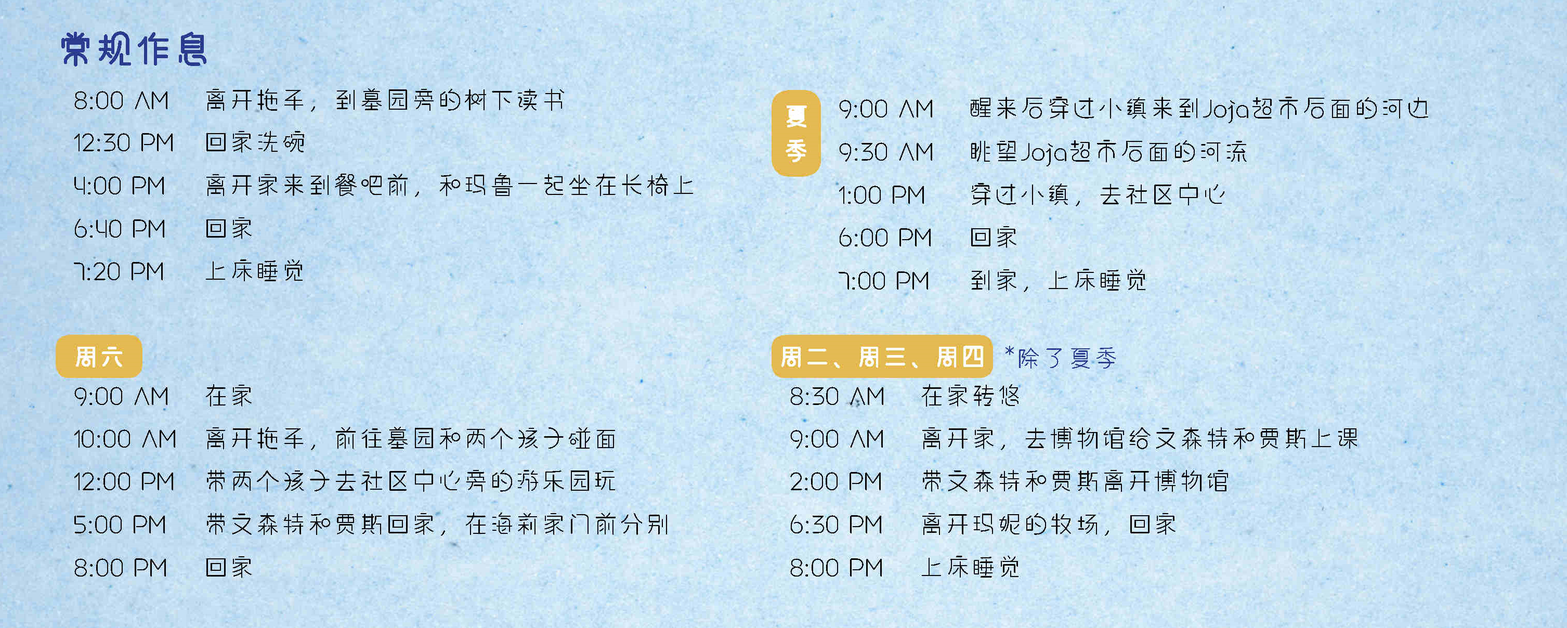
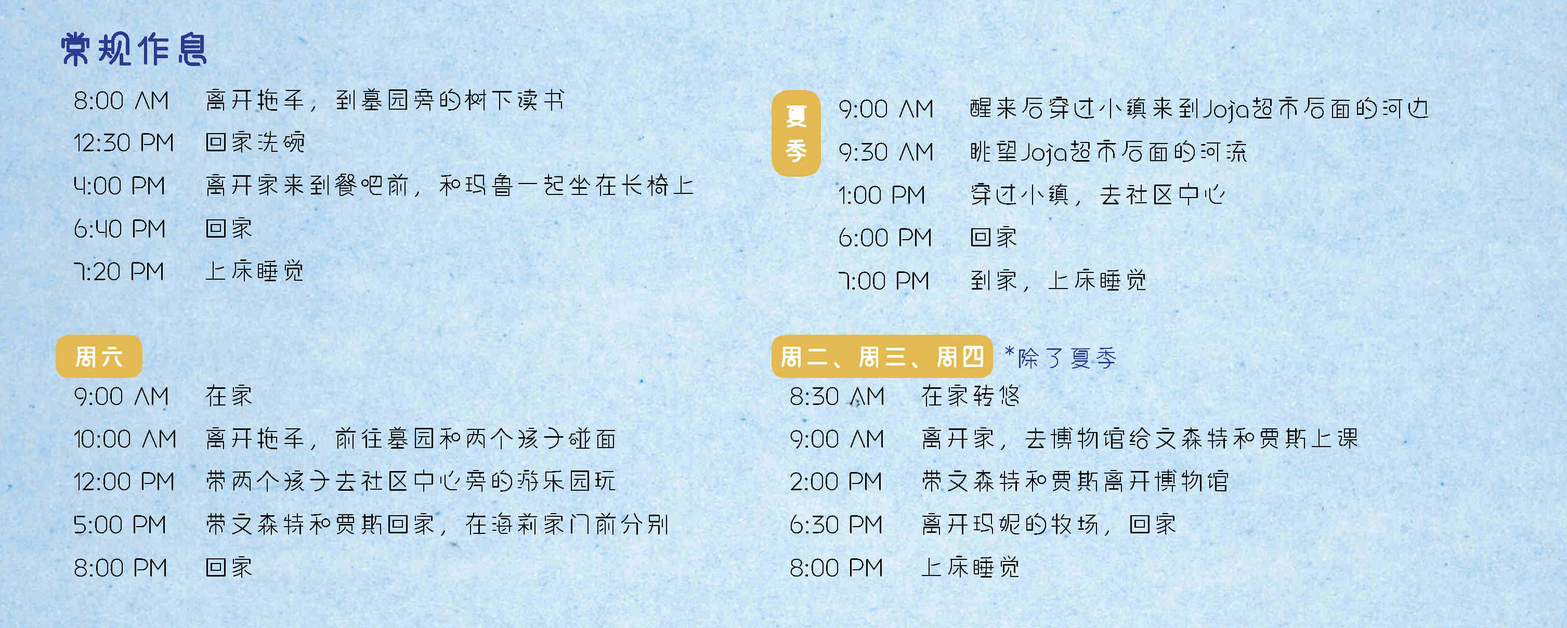
fix big jpg

diff --git a/docs/index.md b/docs/index.md
@@ -4,7 +4,7 @@ comments: true
 
 # 📔星露谷攻略笔记
 
-![](./assets/overview.jpg)
+![](./assets/overview.png)
 
 ## 仓库说明
 
